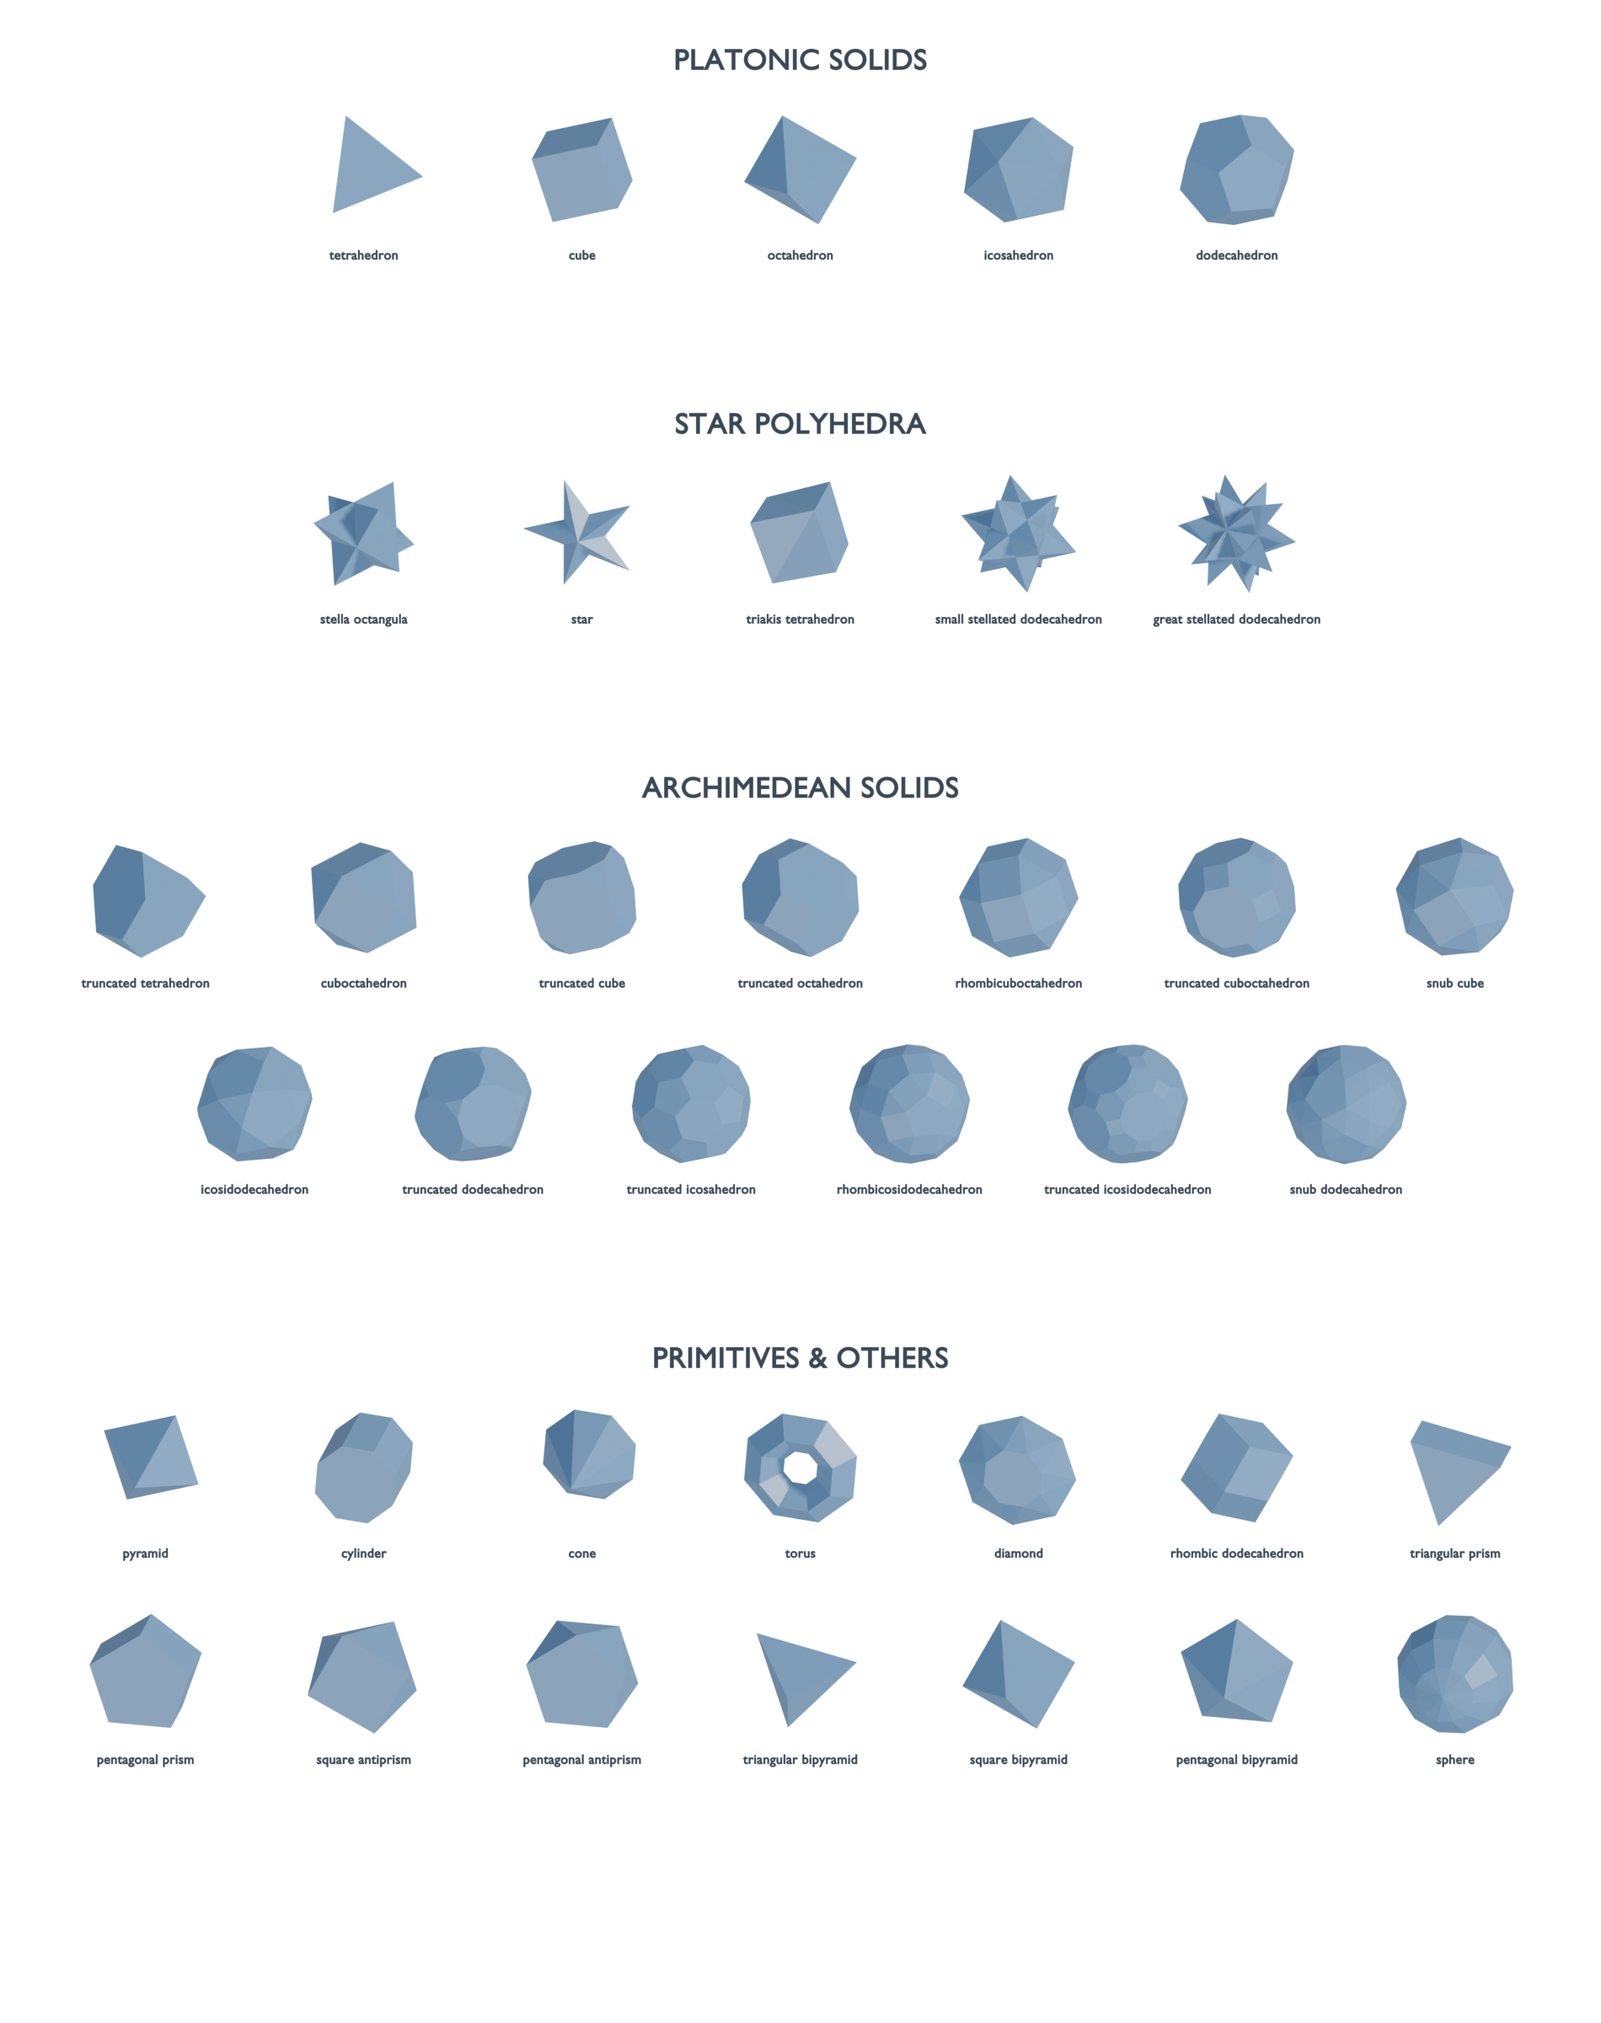
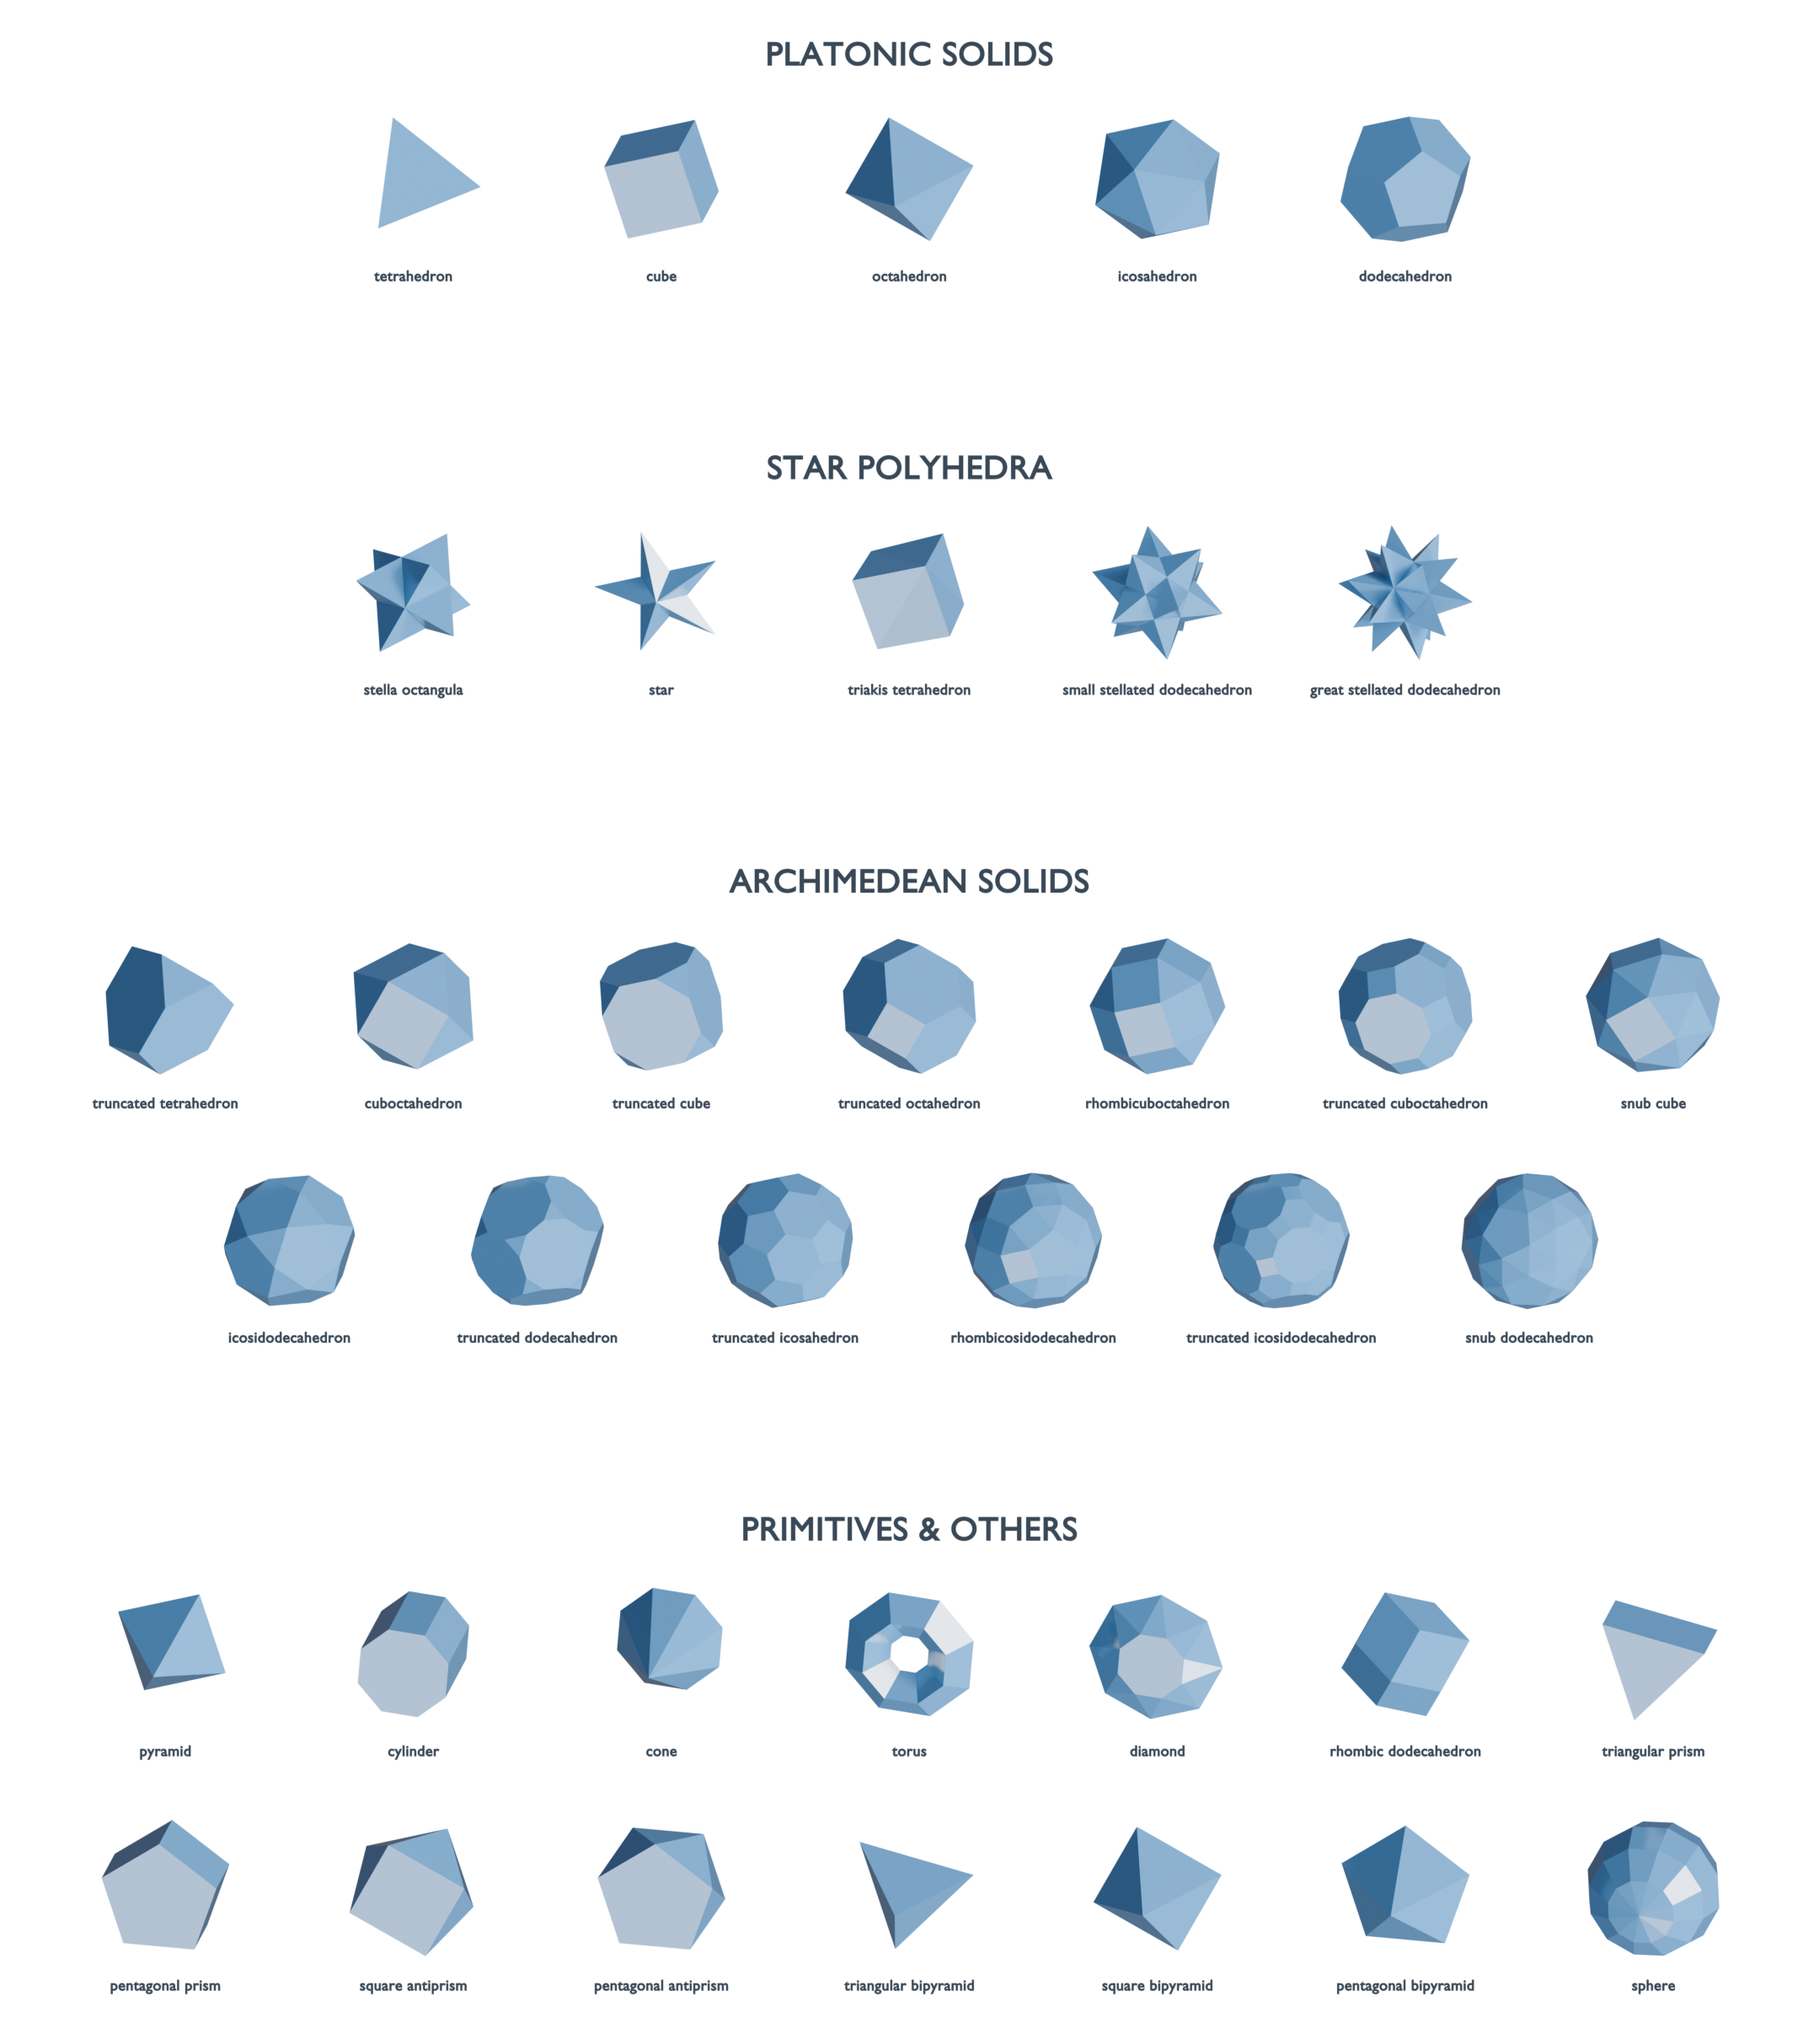
Improve Blender rendering with glossy clearcoat, specular glare, and tight framing
- Lower material roughness, increase specular IOR, add clearcoat layer, and switch to rich sapphire base color
- Broaden sun light angles, add high-angle rim light, and lower ambient background to boost specular glare and contrast
- Enable EEVEE raytracing for glossy facet reflections
- Fix bounding box calculation to eliminate excess bottom padding
- Re-render assets/shapes.png

diff --git a/bin/export_blender.py b/bin/export_blender.py
@@ -124,30 +124,53 @@ def main():
     scene.world.use_nodes = True
     bg_node = scene.world.node_tree.nodes.get("Background")
     if bg_node:
-        bg_node.inputs["Color"].default_value = (0.28, 0.30, 0.36, 1.0)
-        bg_node.inputs["Strength"].default_value = 1.0
+        bg_node.inputs["Color"].default_value = (0.16, 0.20, 0.28, 1.0)
+        bg_node.inputs["Strength"].default_value = 0.55
 
-    # Key directional light
+    # Key directional light (broad glossy specular glare)
     light_key = bpy.data.lights.new(name="KeyLight", type="SUN")
-    light_key.energy = 2.2
+    light_key.energy = 3.6
+    light_key.angle = math.radians(26.0)
     obj_key = bpy.data.objects.new("KeyLight", light_key)
-    obj_key.rotation_euler = (math.radians(45), math.radians(-35), math.radians(135))
+    obj_key.rotation_euler = (math.radians(45), math.radians(-30), math.radians(135))
     scene.collection.objects.link(obj_key)
 
-    # Fill directional light
+    # Fill directional light (soft fill)
     light_fill = bpy.data.lights.new(name="FillLight", type="SUN")
-    light_fill.energy = 0.9
+    light_fill.energy = 1.0
+    light_fill.angle = math.radians(35.0)
     obj_fill = bpy.data.objects.new("FillLight", light_fill)
-    obj_fill.rotation_euler = (math.radians(45), math.radians(35), math.radians(-45))
+    obj_fill.rotation_euler = (math.radians(45), math.radians(40), math.radians(-45))
     scene.collection.objects.link(obj_fill)
+
+    # Rim / Glare directional light (high-specular edge accents)
+    light_rim = bpy.data.lights.new(name="RimLight", type="SUN")
+    light_rim.energy = 3.0
+    light_rim.angle = math.radians(22.0)
+    obj_rim = bpy.data.objects.new("RimLight", light_rim)
+    obj_rim.rotation_euler = (math.radians(-55), math.radians(25), math.radians(-115))
+    scene.collection.objects.link(obj_rim)
+
+    # Enable EEVEE raytracing for glossy reflections
+    if hasattr(scene, "eevee") and hasattr(scene.eevee, "use_raytracing"):
+        scene.eevee.use_raytracing = True
 
     # Materials
     mat_shape = bpy.data.materials.new("Mat_SolidShape")
     mat_shape.use_nodes = True
     bsdf_shape = mat_shape.node_tree.nodes.get("Principled BSDF")
     if bsdf_shape:
-        bsdf_shape.inputs["Base Color"].default_value = (0.22, 0.48, 0.82, 1.0)
-        bsdf_shape.inputs["Roughness"].default_value = 0.35
+        # Vibrant saturated royal/sapphire blue with deep gloss and clearcoat glare
+        bsdf_shape.inputs["Base Color"].default_value = (0.12, 0.44, 0.92, 1.0)
+        bsdf_shape.inputs["Roughness"].default_value = 0.10
+        if "Specular IOR Level" in bsdf_shape.inputs:
+            bsdf_shape.inputs["Specular IOR Level"].default_value = 0.90
+        if "Coat Weight" in bsdf_shape.inputs:
+            bsdf_shape.inputs["Coat Weight"].default_value = 1.0
+        if "Coat Roughness" in bsdf_shape.inputs:
+            bsdf_shape.inputs["Coat Roughness"].default_value = 0.03
+        if "Coat IOR" in bsdf_shape.inputs:
+            bsdf_shape.inputs["Coat IOR"].default_value = 1.60
 
     mat_normal = bpy.data.materials.new("Mat_NormalVector")
     mat_normal.use_nodes = True
@@ -197,6 +220,7 @@ def main():
     rot_3d = (math.radians(20), math.radians(-18), math.radians(12))
 
     curr_y = 0.0
+    lowest_y = 0.0
 
     for group_title, shape_names in SHAPE_GROUPS:
         # Group Header Title
@@ -294,6 +318,7 @@ def main():
                     pos_y - 1.30,
                     align_y="TOP",
                 )
+                lowest_y = min(lowest_y, pos_y - 1.30 - 0.25)
 
             curr_y -= spacing_y
         curr_y -= 0.8
@@ -304,15 +329,15 @@ def main():
     scene.render.image_settings.file_format = "PNG"
     scene.render.image_settings.compression = 90
 
-    # Tight Bounding Box framing with balanced padding
+    # Tight Bounding Box framing with zero excess bottom padding
     pad_x = 2.4
-    pad_y_top = 1.0
-    pad_y_bot = 0.8
+    pad_y_top = 0.8
+    pad_y_bot = 0.4
 
     min_x = -pad_x
     max_x = (num_cols - 1) * spacing_x + pad_x
     max_y = pad_y_top
-    min_y = curr_y + 0.8 - 1.30 - 0.25 - pad_y_bot
+    min_y = lowest_y - pad_y_bot
 
     width_span = max_x - min_x
     height_span = max_y - min_y
